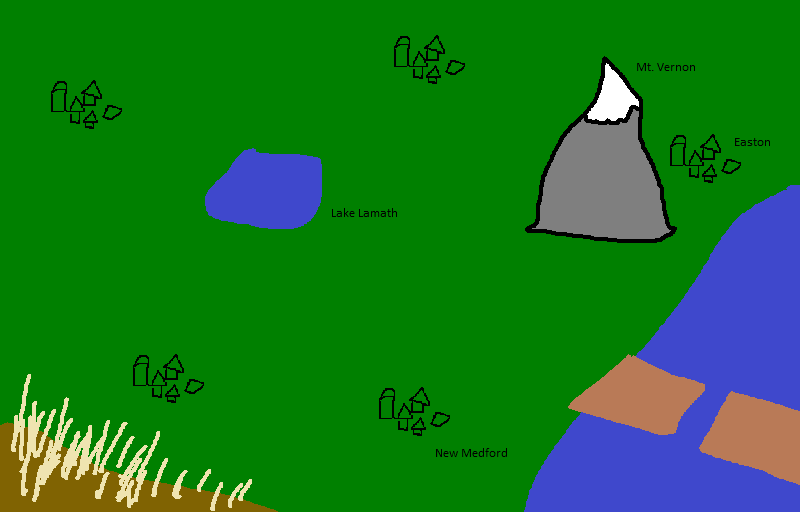
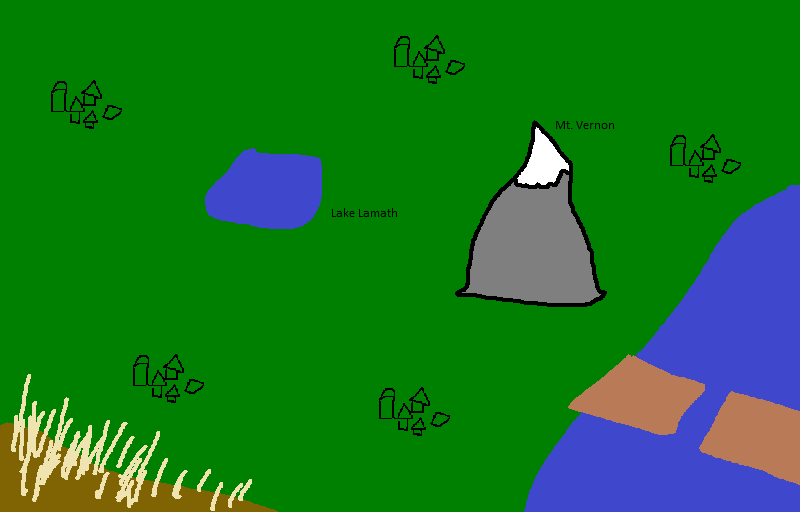
all towns, other stuff

Changed region(s): [[0.5625, 0.0938, 0.875, 0.625], [0.5312, 0.875, 0.625, 0.9062], [0.9375, 0.25, 0.9688, 0.2812]]

diff --git a/gameData/assets/overworld.py b/gameData/assets/overworld.py
@@ -20,6 +20,9 @@ import dpylib as dl
 overworldimage=pygame.image.load(path.join("images","worldmap.png")).convert()
 font = ui.LoadFont()
 
+#MAKE OTHER TOWNS
+
+
 class Overworld(object):
     def __init__(self,surf):
         self.screen="main"
@@ -37,15 +40,17 @@ class Overworld(object):
         self.level5questsP=["New Adventurer","quest1","quest2","quest3","Monster Hunter 1"]
         self.qbuttons=[]
 
-        self.locationbuttons=[ui.Button(147,96,100,32,"Prospect",self.surf),
-                    ui.Button(170,410,100,32,"Fairfield",self.surf),
-                    ui.Button(459,37,100,32,"Norfolk",self.surf)]
+        self.locationbuttons=[ui.Button(65,146,100,32,"Prospect",self.surf),
+                    ui.Button(132,410,100,32,"Fairfield",self.surf),
+                    ui.Button(392,95,100,32,"Norfolk",self.surf),
+                    ui.Button(375,445,100,32,"New Medford",self.surf),
+                    ui.Button(670,191,100,32,"Easton",self.surf),]
 
         self.locationtitles=[font.render("Welcome to Prospect",0,(255,255,255),(0,0,0)),
                              font.render("Welcome to Fairfield",0,(255,255,255),(0,0,0)),
                              font.render("Welcome to Norfolk",0,(255,255,255),(0,0,0)),
-                             font.render("Select a dungeon",0,(255,255,255),(0,0,0)),
-                             font.render("Click a quest to activate it",0,(255,255,255),(0,0,0))
+                             font.render("Welcome to New Medford",0,(255,255,255),(0,0,0)),
+                             font.render("Welcome to Easton",0,(255,255,255),(0,0,0)),
                             ]
 
         self.townbuttons=[ui.Button(510,50,220,32,"View the quest board",self.surf),
@@ -67,14 +72,7 @@ class Overworld(object):
                 for b in self.townbuttons:
                     b.Update()
                 #prospect
-                if self.townIndex==0:
-                    self.surf.blit(self.locationtitles[0],(25,25))
-                #fairfield
-                if self.townIndex==1:
-                    self.surf.blit(self.locationtitles[1],(25,25))
-                #norfolk
-                if self.townIndex==2:
-                    self.surf.blit(self.locationtitles[2],(25,25))
+                self.surf.blit(self.locationtitles[self.townIndex],(25,25))
                 self.drawn=True
 
         #Cave selector for towns
@@ -82,14 +80,14 @@ class Overworld(object):
             if self.drawn==False:
                 self.surf.fill((0,0,0))
                 self.townbuttons[3].Update()
-                self.surf.blit(self.locationtitles[3],(25,25))
+                self.surf.blit(font.render("Select a dungeon",0,(255,255,255),(0,0,0)),(25,25))
                 for b in self.cavebuttons[0:3]:
                     b.Update()
                 self.drawn=True
         if self.screen=="questboard":
             if self.drawn==False:
                 self.surf.fill((0,0,0))
-                self.surf.blit(self.locationtitles[4],(25,25))
+                self.surf.blit(font.render("Select a quest!",0,(255,255,255),(0,0,0)),(25,25))
                 self.qbuttons=[]
                 padding=0
                 if self.townIndex==0:

diff --git a/gameData/assets/items.py b/gameData/assets/items.py
@@ -21,9 +21,8 @@ class Item:
     def __init__(self):
         self.stack=1
 
-#TYPES
-
-#QUEST
+####### QUEST ITEMS ##########
+###########################
 class Gabe(Item):
     def __init__(self):
         self.itemType="quest"
@@ -41,7 +40,8 @@ class Gabe(Item):
 
         self.image = itemsheetQuest.subsurface(pygame.Rect(0*26, 0, 26, 26)).convert()
 
-#WEAPON
+############ WEAPONS #######################
+##########################
 class Dirk(Item):
     def __init__(self):
         self.itemType="weapon"
@@ -76,7 +76,8 @@ class Sword(Item):
 
         self.image = itemsheetWeapon.subsurface(pygame.Rect(1*26, 0, 26, 26)).convert()
 
-#EAT
+## EAT ##
+#########
 class Bread(Item):
     def __init__(self):
         self.itemType="food"
